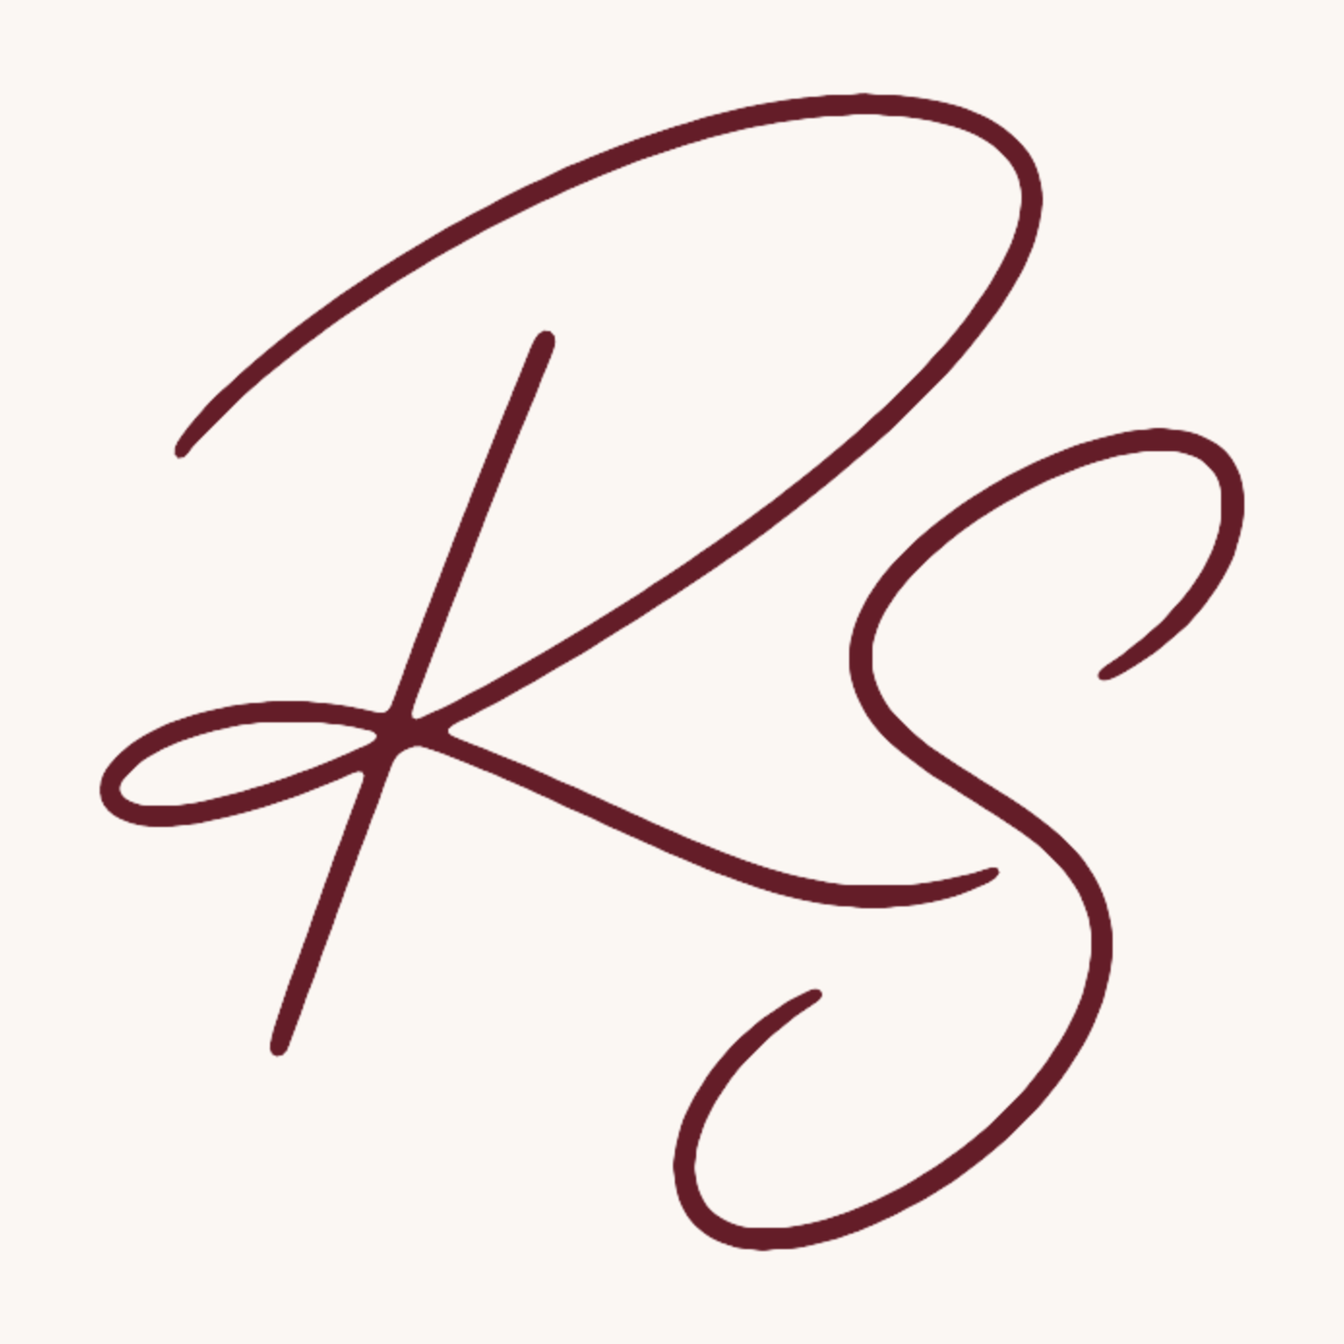
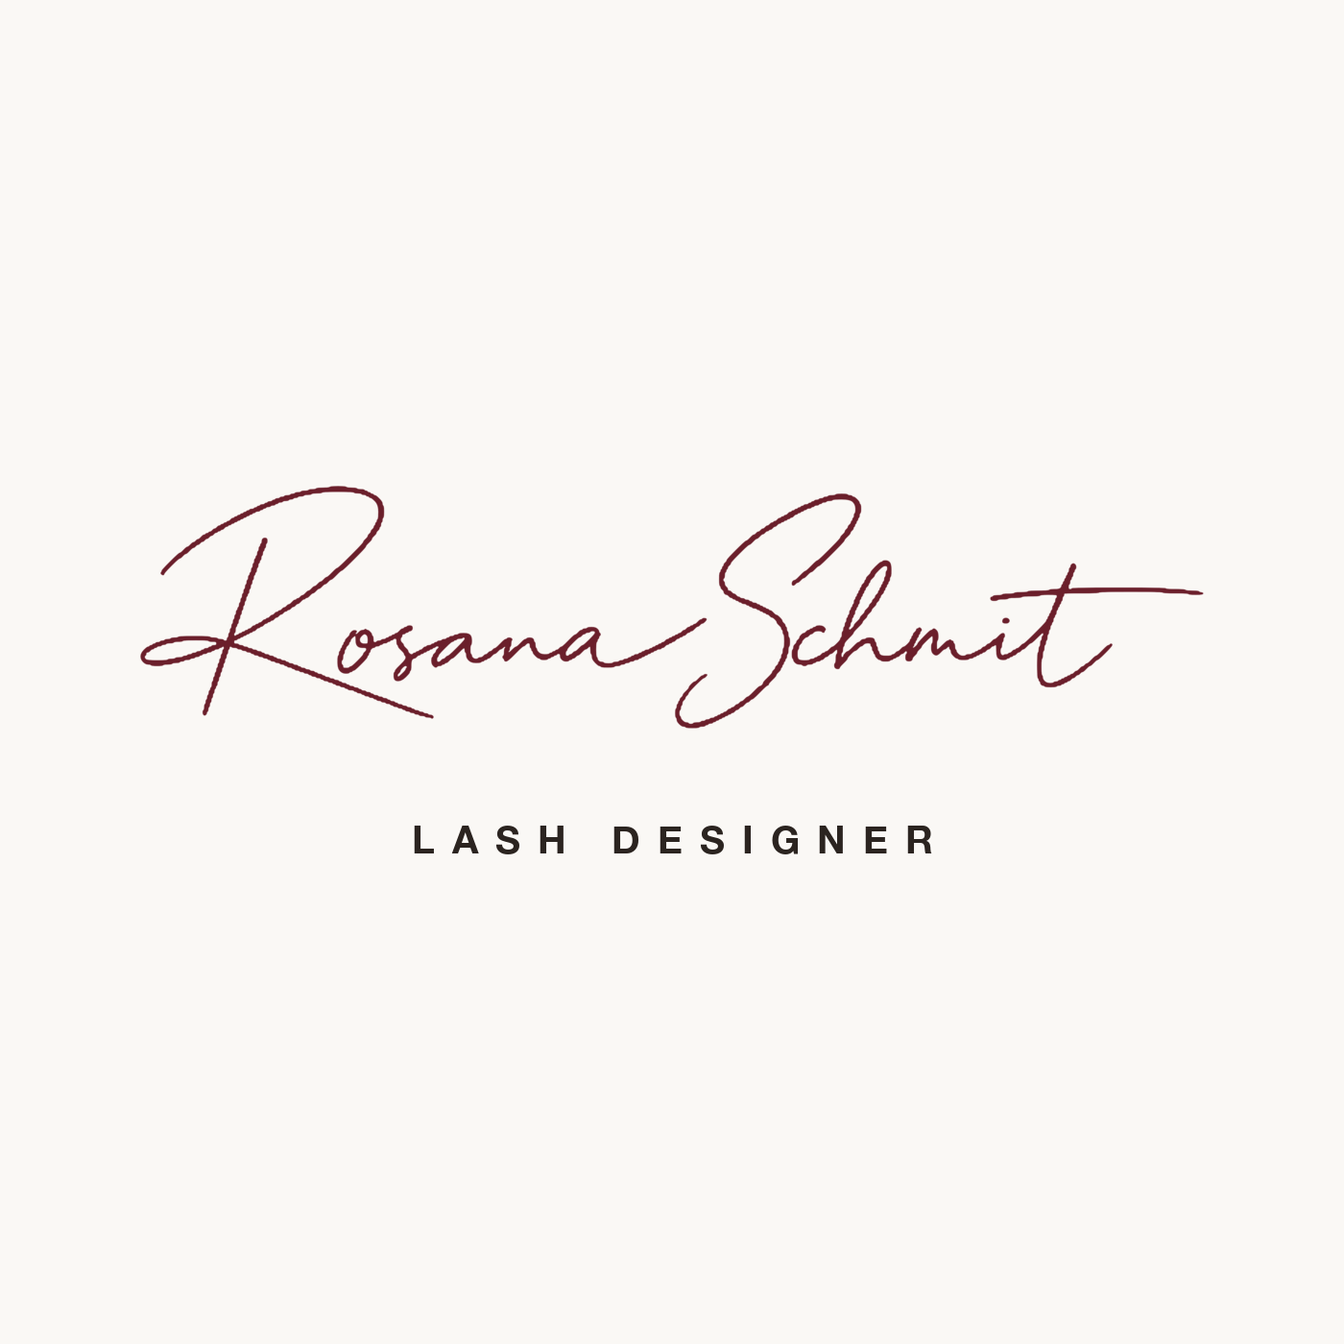
Use Rosana official signature and remove refill field

diff --git a/app.js b/app.js
@@ -8,7 +8,7 @@ const translations = {
     bookShort: "Agendar", bookWhatsApp: "Agendar meu horário", heroTitle: "A arte de realçar<br />aquilo que <em>já é seu.</em>", heroBody: "Lash Designer e Lash Lifting em Florianópolis.", heroAlt: "Fios de extensão de cílios sobre seda clara",
     aboutLabel: "Sobre", aboutTitle: "Conheça a artista", aboutIntro: "Lembro da primeira vez que fiz meus cílios, em 2019, com uma Lash Designer que admirava.", aboutReadStory: "Ler a história completa", aboutCloseStory: "Fechar a história", aboutFeeling: "Saí daquele atendimento com a autoestima diferente. Me sentia mais bonita, mais confiante e feliz com o meu olhar. E essa sensação se repetia a cada manutenção.", aboutDiscovery: "Aos poucos, comecei a perceber que não eram apenas os cílios que me faziam feliz — era a sensação que eles despertavam em mim.", aboutHeart: "Foi então que senti no coração:", aboutQuote: "“Eu quero proporcionar isso para outras mulheres.”", aboutBeginning: "Em meio a uma pandemia e a um momento de grandes mudanças, decidi iniciar minha trajetória no universo Lash.", aboutTraining: "Em 2020, me formei na Aline Academy, em Londrina — PR, e comecei uma nova caminhada, buscando conhecimento, aperfeiçoando técnicas e descobrindo uma paixão que crescia a cada olhar que eu transformava.", aboutToday: "E até hoje, quase seis anos depois, cada vez que uma cliente se olha no espelho depois de um procedimento e sorri, eu me lembro daquela sensação que me fez escolher esse caminho.", aboutPurpose: "É isso que quero proporcionar em cada atendimento.", aboutEmpathy: "Porque eu sei exatamente como é se sentir assim.", portraitAlt: "Rosana Schmit, Lash Artist",
     methodLabel: "O método Rosana Schmit", methodPersonalTitle: "Personalização", methodMapTitle: "Mapeamento", methodHealthTitle: "Saúde dos fios", methodCareTitle: "Experiência", methodPending: "Detalhes a confirmar com Rosana.",
-    servicesLabel: "Serviços", servicesTitle: "Procedimentos", servicesIntro: "Informações detalhadas serão atualizadas com Rosana.", lashDesignerBody: "Procedimento de extensão de cílios. Detalhes em atualização.", lashLiftingBody: "Procedimento para cílios naturais. Detalhes em atualização.", duration: "Tempo", lasting: "Durabilidade", maintenance: "Manutenção", refill: "Preenchimento", price: "Valor", toConfirm: "A confirmar", askWhatsApp: "Consultar pelo WhatsApp",
+    servicesLabel: "Serviços", servicesTitle: "Procedimentos", servicesIntro: "Informações detalhadas serão atualizadas com Rosana.", lashDesignerBody: "Procedimento de extensão de cílios. Detalhes em atualização.", lashLiftingBody: "Procedimento para cílios naturais. Detalhes em atualização.", duration: "Tempo", lasting: "Durabilidade", maintenance: "Manutenção", price: "Valor", toConfirm: "A confirmar", askWhatsApp: "Consultar pelo WhatsApp",
     resultsLabel: "Resultados", resultsTitle: "Trabalhos de Rosana", galleryAltOne: "Close de efeito molhado realizado por Rosana", galleryAltTwo: "Close de volume egípcio realizado por Rosana", galleryAltThree: "Detalhe de extensão de cílios realizado por Rosana", galleryAltFour: "Close de uma extensão de cílios realizada por Rosana", galleryAltFive: "Close de um efeito molhado realizado por Rosana", galleryAltSix: "Antes e depois de um efeito Foxy realizado por Rosana", galleryDateOne: "Ago 2025", galleryDateTwo: "Jul 2025", galleryDateThree: "Jun 2025", galleryDateFour: "Abr 2025", galleryDateFive: "Mar 2025", galleryDateSix: "Jan 2025", certificates: "Certificados", certificatesPending: "Certificados em breve", testimonialsLabel: "Depoimentos", testimonialsPending: "Histórias reais serão publicadas com autorização das clientes.",
     locationsLabel: "Onde atender", locationsTitle: "Escolha seu espaço", locationsIntro: "Atendimento em Florianópolis com horário marcado.", vipTitle: "Atendimento VIP", vipBody: "Atendimento domiciliar sob consulta.", contactPrompt: "Pronta para conversar com Rosana?", phone: "Telefone", footerNote: "Serviços, endereços e contatos fornecidos por Rosana. Textos descritivos aguardam validação final.", menuOpen: "Abrir menu", menuClose: "Fechar menu"
   },
@@ -21,7 +21,7 @@ const translations = {
     bookShort: "Book", bookWhatsApp: "Book on WhatsApp", heroTitle: "The art of enhancing<br />what is <em>already yours.</em>", heroBody: "Lash Designer and Lash Lifting in Florianópolis.", heroAlt: "Individual lash extensions on light silk",
     aboutLabel: "About", aboutTitle: "Meet the Artist", aboutIntro: "I remember the first time I had my lashes done, in 2019, by a Lash Designer I admired.", aboutReadStory: "Read the full story", aboutCloseStory: "Close the story", aboutFeeling: "I left that appointment feeling different about myself. I felt more beautiful, more confident, and happier with my eyes. And that feeling returned with every refill.", aboutDiscovery: "Little by little, I began to realize it was not only the lashes that made me happy — it was the feeling they awakened in me.", aboutHeart: "Then I felt it in my heart:", aboutQuote: "“I want to give this feeling to other women.”", aboutBeginning: "In the middle of a pandemic and a time of major change, I decided to begin my journey in the lash world.", aboutTraining: "In 2020, I graduated from Aline Academy in Londrina, Paraná, and started a new journey — seeking knowledge, refining my techniques, and discovering a passion that grew with every gaze I transformed.", aboutToday: "Even today, almost six years later, whenever a client looks in the mirror after a treatment and smiles, I remember the feeling that made me choose this path.", aboutPurpose: "That is what I want to offer in every appointment.", aboutEmpathy: "Because I know exactly what it feels like.", portraitAlt: "Rosana Schmit, Lash Artist",
     methodLabel: "The Rosana Schmit method", methodPersonalTitle: "Personalization", methodMapTitle: "Mapping", methodHealthTitle: "Natural lash health", methodCareTitle: "Experience", methodPending: "Details to be confirmed with Rosana.",
-    servicesLabel: "Services", servicesTitle: "Treatments", servicesIntro: "Detailed information will be updated with Rosana.", lashDesignerBody: "Lash extension procedure. Details are being updated.", lashLiftingBody: "Procedure for natural lashes. Details are being updated.", duration: "Duration", lasting: "How long it lasts", maintenance: "Maintenance", refill: "Refill", price: "Price", toConfirm: "To be confirmed", askWhatsApp: "Ask on WhatsApp",
+    servicesLabel: "Services", servicesTitle: "Treatments", servicesIntro: "Detailed information will be updated with Rosana.", lashDesignerBody: "Lash extension procedure. Details are being updated.", lashLiftingBody: "Procedure for natural lashes. Details are being updated.", duration: "Duration", lasting: "How long it lasts", maintenance: "Maintenance", price: "Price", toConfirm: "To be confirmed", askWhatsApp: "Ask on WhatsApp",
     resultsLabel: "Results", resultsTitle: "Rosana's work", galleryAltOne: "Close-up of a wet-look lash set by Rosana", galleryAltTwo: "Close-up of an Egyptian volume lash set by Rosana", galleryAltThree: "Detail of a lash extension set by Rosana", galleryAltFour: "Close-up of a lash extension set by Rosana", galleryAltFive: "Close-up of a wet-look lash set by Rosana", galleryAltSix: "Before and after of a Foxy lash set by Rosana", galleryDateOne: "Aug 2025", galleryDateTwo: "Jul 2025", galleryDateThree: "Jun 2025", galleryDateFour: "Apr 2025", galleryDateFive: "Mar 2025", galleryDateSix: "Jan 2025", certificates: "Certificates", certificatesPending: "Certificates coming soon", testimonialsLabel: "Reviews", testimonialsPending: "Real stories will be published with each client's permission.",
     locationsLabel: "Where to book", locationsTitle: "Choose your location", locationsIntro: "Appointments in Florianópolis by prior booking.", vipTitle: "VIP appointment", vipBody: "At-home appointments on request.", contactPrompt: "Ready to talk to Rosana?", phone: "Phone", footerNote: "Services, addresses and contacts were provided by Rosana. Descriptive copy awaits final approval.", menuOpen: "Open menu", menuClose: "Close menu"
   },
@@ -34,7 +34,7 @@ const translations = {
     bookShort: "Reservar", bookWhatsApp: "Reservar por WhatsApp", heroTitle: "El arte de realzar<br />lo que <em>ya es tuyo.</em>", heroBody: "Lash Designer y Lash Lifting en Florianópolis.", heroAlt: "Extensiones individuales de pestañas sobre seda clara",
     aboutLabel: "Sobre mí", aboutTitle: "Conoce a la artista", aboutIntro: "Recuerdo la primera vez que me hice las pestañas, en 2019, con una diseñadora de pestañas a la que admiraba.", aboutReadStory: "Leer la historia completa", aboutCloseStory: "Cerrar la historia", aboutFeeling: "Salí de aquella cita sintiéndome diferente conmigo misma. Me sentía más bonita, más segura y feliz con mi mirada. Y esa sensación se repetía en cada mantenimiento.", aboutDiscovery: "Poco a poco, empecé a comprender que no eran solo las pestañas las que me hacían feliz — era la sensación que despertaban en mí.", aboutHeart: "Entonces lo sentí en el corazón:", aboutQuote: "“Quiero brindarles esta sensación a otras mujeres.”", aboutBeginning: "En plena pandemia y en un momento de grandes cambios, decidí comenzar mi trayectoria en el universo de las pestañas.", aboutTraining: "En 2020, me formé en Aline Academy, en Londrina, Paraná, y comencé un nuevo camino — buscando conocimientos, perfeccionando técnicas y descubriendo una pasión que crecía con cada mirada que transformaba.", aboutToday: "Y hasta hoy, casi seis años después, cada vez que una clienta se mira al espejo después de un procedimiento y sonríe, recuerdo aquella sensación que me hizo elegir este camino.", aboutPurpose: "Eso es lo que quiero ofrecer en cada cita.", aboutEmpathy: "Porque sé exactamente lo que se siente.", portraitAlt: "Rosana Schmit, Lash Artist",
     methodLabel: "El método Rosana Schmit", methodPersonalTitle: "Personalización", methodMapTitle: "Mapeo", methodHealthTitle: "Salud de las pestañas", methodCareTitle: "Experiencia", methodPending: "Detalles por confirmar con Rosana.",
-    servicesLabel: "Servicios", servicesTitle: "Procedimientos", servicesIntro: "La información detallada será actualizada con Rosana.", lashDesignerBody: "Procedimiento de extensión de pestañas. Detalles en actualización.", lashLiftingBody: "Procedimiento para pestañas naturales. Detalles en actualización.", duration: "Tiempo", lasting: "Duración", maintenance: "Mantenimiento", refill: "Relleno", price: "Precio", toConfirm: "Por confirmar", askWhatsApp: "Consultar por WhatsApp",
+    servicesLabel: "Servicios", servicesTitle: "Procedimientos", servicesIntro: "La información detallada será actualizada con Rosana.", lashDesignerBody: "Procedimiento de extensión de pestañas. Detalles en actualización.", lashLiftingBody: "Procedimiento para pestañas naturales. Detalles en actualización.", duration: "Tiempo", lasting: "Duración", maintenance: "Mantenimiento", price: "Precio", toConfirm: "Por confirmar", askWhatsApp: "Consultar por WhatsApp",
     resultsLabel: "Resultados", resultsTitle: "Trabajos de Rosana", galleryAltOne: "Primer plano de un efecto mojado realizado por Rosana", galleryAltTwo: "Primer plano de un volumen egipcio realizado por Rosana", galleryAltThree: "Detalle de una extensión de pestañas realizada por Rosana", galleryAltFour: "Primer plano de una extensión de pestañas realizada por Rosana", galleryAltFive: "Primer plano de un efecto mojado realizado por Rosana", galleryAltSix: "Antes y después de un efecto Foxy realizado por Rosana", galleryDateOne: "Ago 2025", galleryDateTwo: "Jul 2025", galleryDateThree: "Jun 2025", galleryDateFour: "Abr 2025", galleryDateFive: "Mar 2025", galleryDateSix: "Ene 2025", certificates: "Certificados", certificatesPending: "Certificados próximamente", testimonialsLabel: "Testimonios", testimonialsPending: "Las historias reales se publicarán con autorización de las clientas.",
     locationsLabel: "Dónde atiendo", locationsTitle: "Elige tu espacio", locationsIntro: "Atención en Florianópolis con cita previa.", vipTitle: "Atención VIP", vipBody: "Atención a domicilio bajo consulta.", contactPrompt: "¿Lista para hablar con Rosana?", phone: "Teléfono", footerNote: "Servicios, direcciones y contactos proporcionados por Rosana. Los textos descriptivos esperan validación final.", menuOpen: "Abrir menú", menuClose: "Cerrar menú"
   }

diff --git a/index.html b/index.html
@@ -11,16 +11,16 @@
     <meta property="og:title" content="Rosana Schmit — Lash Artist em Florianópolis" />
     <meta property="og:description" content="Lash Designer, Lash Lifting e atendimento personalizado em Florianópolis." />
     <meta property="og:url" content="https://rosanaschmit.com.br/" />
-    <meta property="og:image" content="https://amineedge.github.io/rosana-schmit-lash/assets/rs-social-preview.png" />
-    <meta property="og:image:secure_url" content="https://amineedge.github.io/rosana-schmit-lash/assets/rs-social-preview.png" />
+    <meta property="og:image" content="https://rosanaschmit.com.br/assets/rs-social-preview.png" />
+    <meta property="og:image:secure_url" content="https://rosanaschmit.com.br/assets/rs-social-preview.png" />
     <meta property="og:image:type" content="image/png" />
     <meta property="og:image:width" content="1400" />
     <meta property="og:image:height" content="1400" />
-    <meta property="og:image:alt" content="Monograma RS de Rosana Schmit" />
+    <meta property="og:image:alt" content="Assinatura Rosana Schmit — Lash Designer" />
     <meta name="twitter:card" content="summary_large_image" />
     <meta name="twitter:title" content="Rosana Schmit — Lash Artist em Florianópolis" />
     <meta name="twitter:description" content="Lash Designer, Lash Lifting e atendimento personalizado em Florianópolis." />
-    <meta name="twitter:image" content="https://amineedge.github.io/rosana-schmit-lash/assets/rs-social-preview.png" />
+    <meta name="twitter:image" content="https://rosanaschmit.com.br/assets/rs-social-preview.png" />
     <title>Rosana Schmit — Lash Artist em Florianópolis</title>
     <link rel="canonical" href="https://rosanaschmit.com.br/" />
     <link rel="icon" href="./assets/rs-icon-32.png" type="image/png" sizes="32x32" />
@@ -28,15 +28,15 @@
     <link rel="preconnect" href="https://fonts.googleapis.com" />
     <link rel="preconnect" href="https://fonts.gstatic.com" crossorigin />
     <link href="https://fonts.googleapis.com/css2?family=Allura&family=Cormorant+Garamond:ital,wght@0,400;0,500;1,400&family=Montserrat:wght@400;500;600&display=swap" rel="stylesheet" />
-    <link rel="stylesheet" href="./styles.css?v=13" />
-    <script src="./app.js?v=13" defer></script>
+    <link rel="stylesheet" href="./styles.css?v=14" />
+    <script src="./app.js?v=14" defer></script>
   </head>
   <body>
     <a class="skip-link" href="#conteudo" data-i18n="skip">Pular para o conteúdo</a>
 
     <header class="site-header">
       <a class="brand" href="#inicio" aria-label="Rosana Schmit — início" data-i18n-aria="brandHomeAria">
-        <strong>Rosana Schmit</strong>
+        <img class="brand-signature" src="./assets/rosana-schmit-signature.svg" alt="" width="710" height="168" />
         <span>Lash Designer</span>
       </a>
       <button class="menu-toggle" type="button" aria-expanded="false" aria-controls="main-nav">
@@ -123,13 +123,13 @@
           <article class="service-row">
             <div class="service-visual" aria-hidden="true"><svg viewBox="0 0 170 80"><path d="M8 61C48 72 108 64 160 26"/><path d="M34 65C52 54 55 40 55 25"/><path d="M53 67C72 52 76 34 75 18"/><path d="M74 68C94 50 98 29 96 13"/><path d="M96 64C117 47 121 29 118 15"/><path d="M119 57C140 43 144 31 141 21"/></svg></div>
             <div class="service-copy"><h3>Lash Designer</h3><p data-i18n="lashDesignerBody">Procedimento de extensão de cílios. Detalhes em atualização.</p></div>
-            <dl class="service-facts"><div><dt data-i18n="duration">Tempo</dt><dd data-i18n="toConfirm">A confirmar</dd></div><div><dt data-i18n="lasting">Durabilidade</dt><dd data-i18n="toConfirm">A confirmar</dd></div><div><dt data-i18n="maintenance">Manutenção</dt><dd data-i18n="toConfirm">A confirmar</dd></div><div><dt data-i18n="refill">Preenchimento</dt><dd data-i18n="toConfirm">A confirmar</dd></div><div><dt data-i18n="price">Valor</dt><dd data-i18n="toConfirm">A confirmar</dd></div></dl>
+            <dl class="service-facts"><div><dt data-i18n="duration">Tempo</dt><dd data-i18n="toConfirm">A confirmar</dd></div><div><dt data-i18n="lasting">Durabilidade</dt><dd data-i18n="toConfirm">A confirmar</dd></div><div><dt data-i18n="maintenance">Manutenção</dt><dd data-i18n="toConfirm">A confirmar</dd></div><div><dt data-i18n="price">Valor</dt><dd data-i18n="toConfirm">A confirmar</dd></div></dl>
             <a class="button button-outline" data-whatsapp href="#contato" data-i18n="askWhatsApp">Consultar pelo WhatsApp</a>
           </article>
           <article class="service-row">
             <div class="service-visual" aria-hidden="true"><svg viewBox="0 0 170 80"><path d="M8 61C48 72 108 64 160 26"/><path d="M28 63C49 51 50 35 48 20"/><path d="M46 67C68 50 69 29 65 13"/><path d="M66 69C89 48 90 24 85 8"/><path d="M88 66C112 46 113 24 108 10"/><path d="M112 59C137 43 138 29 133 18"/></svg></div>
             <div class="service-copy"><h3>Lash Lifting</h3><p data-i18n="lashLiftingBody">Procedimento para cílios naturais. Detalhes em atualização.</p></div>
-            <dl class="service-facts"><div><dt data-i18n="duration">Tempo</dt><dd data-i18n="toConfirm">A confirmar</dd></div><div><dt data-i18n="lasting">Durabilidade</dt><dd data-i18n="toConfirm">A confirmar</dd></div><div><dt data-i18n="maintenance">Manutenção</dt><dd data-i18n="toConfirm">A confirmar</dd></div><div><dt data-i18n="refill">Preenchimento</dt><dd data-i18n="toConfirm">A confirmar</dd></div><div><dt data-i18n="price">Valor</dt><dd data-i18n="toConfirm">A confirmar</dd></div></dl>
+            <dl class="service-facts"><div><dt data-i18n="duration">Tempo</dt><dd data-i18n="toConfirm">A confirmar</dd></div><div><dt data-i18n="lasting">Durabilidade</dt><dd data-i18n="toConfirm">A confirmar</dd></div><div><dt data-i18n="maintenance">Manutenção</dt><dd data-i18n="toConfirm">A confirmar</dd></div><div><dt data-i18n="price">Valor</dt><dd data-i18n="toConfirm">A confirmar</dd></div></dl>
             <a class="button button-outline" data-whatsapp href="#contato" data-i18n="askWhatsApp">Consultar pelo WhatsApp</a>
           </article>
         </div>
@@ -191,7 +191,7 @@
     </main>
 
     <footer class="site-footer">
-      <a class="brand footer-brand" href="#inicio"><strong>Rosana Schmit</strong><span>Lash Designer</span></a>
+      <a class="brand footer-brand" href="#inicio" aria-label="Rosana Schmit — início" data-i18n-aria="brandHomeAria"><img class="brand-signature" src="./assets/rosana-schmit-signature.svg" alt="" width="710" height="168" /><span>Lash Designer</span></a>
       <p>Florianópolis <span aria-hidden="true">•</span> Santa Catarina</p>
       <p class="footer-note" data-i18n="footerNote">Serviços, endereços e contatos fornecidos por Rosana. Textos descritivos aguardam validação final.</p>
     </footer>

diff --git a/styles.css b/styles.css
@@ -44,8 +44,8 @@ address { font-style: normal; }
   background: rgba(250, 248, 245, 0.94);
   backdrop-filter: blur(18px);
 }
-.brand { display: inline-grid; width: max-content; justify-items: center; line-height: 1; }
-.brand strong { color: var(--wine); font-family: var(--script); font-size: clamp(39px, 3.6vw, 58px); font-weight: 400; line-height: .72; white-space: nowrap; }
+.brand { display: inline-grid; width: clamp(210px, 19vw, 300px); justify-items: center; line-height: 1; }
+.brand-signature { width: 100%; height: auto; }
 .brand span { width: 100%; margin-top: 13px; font-size: 9px; font-weight: 500; letter-spacing: .38em; text-align: center; text-indent: .38em; text-transform: uppercase; }
 .main-nav { display: flex; align-items: center; justify-content: center; gap: clamp(20px, 2.5vw, 42px); }
 .main-nav a { position: relative; font-size: 10px; font-weight: 500; letter-spacing: .12em; text-transform: uppercase; }
@@ -128,7 +128,7 @@ h2, h3 { font-family: var(--display); font-weight: 400; }
 .service-visual svg { width: 84%; fill: none; stroke: var(--wine); stroke-width: 1.35; stroke-linecap: round; }
 .service-copy h3 { margin: 0; color: var(--wine); font-size: clamp(31px, 3vw, 45px); line-height: 1; }
 .service-copy p { max-width: 310px; margin: 12px 0 0; color: var(--muted); font-size: 13px; }
-.service-facts { display: grid; grid-template-columns: repeat(5, 1fr); margin: 0; }
+.service-facts { display: grid; grid-template-columns: repeat(4, 1fr); margin: 0; }
 .service-facts div { min-height: 76px; padding: 8px 15px; border-left: 1px solid var(--line); }
 .service-facts dt { margin-bottom: 9px; color: var(--muted); font-size: 8px; font-weight: 600; letter-spacing: .08em; text-transform: uppercase; }
 .service-facts dd { margin: 0; font-size: 11px; }
@@ -168,7 +168,7 @@ h2, h3 { font-family: var(--display); font-weight: 400; }
 .contact-strip li a { color: var(--wine); font-weight: 500; }
 
 .site-footer { min-height: 250px; display: grid; place-items: center; align-content: center; gap: 22px; padding: 54px var(--gutter); text-align: center; }
-.footer-brand strong { font-size: clamp(50px, 6vw, 82px); }
+.footer-brand { width: clamp(260px, 30vw, 430px); }
 .site-footer > p { margin: 0; font-size: 10px; letter-spacing: .16em; text-transform: uppercase; }
 .site-footer .footer-note { max-width: 520px; color: var(--muted); font-size: 9px; }
 
@@ -202,10 +202,10 @@ h2, h3 { font-family: var(--display); font-weight: 400; }
 }
 
 @media (max-width: 820px) {
-  :root { --header-height: 76px; }
-  .site-header { grid-template-columns: 1fr auto; padding-top: 10px; padding-bottom: 8px; }
+  :root { --header-height: 89px; }
+  .site-header { grid-template-columns: 1fr auto; gap: 18px; padding-top: 10px; padding-bottom: 8px; }
   .brand { justify-items: center; }
-  .brand strong { font-size: 38px; }
+  .brand { width: min(230px, calc(100vw - 120px)); }
   .brand span { margin-top: 8px; font-size: 8px; }
   .header-tools { display: none; }
   .menu-toggle { position: relative; display: block; width: 42px; height: 42px; border: 0; background: transparent; cursor: pointer; }
@@ -261,7 +261,6 @@ h2, h3 { font-family: var(--display); font-weight: 400; }
   .service-copy h3 { font-size: 35px; }
   .service-facts { grid-template-columns: repeat(2, 1fr); }
   .service-facts div { min-height: 70px; border-bottom: 1px solid var(--line); }
-  .service-facts div:last-child { grid-column: 1 / -1; }
   .gallery-grid { grid-template-columns: repeat(2, minmax(0, 1fr)); gap: 10px; }
   .gallery-card { aspect-ratio: .9; }
   .gallery-card > span { right: 8px; bottom: 8px; left: 8px; padding: 9px; }
